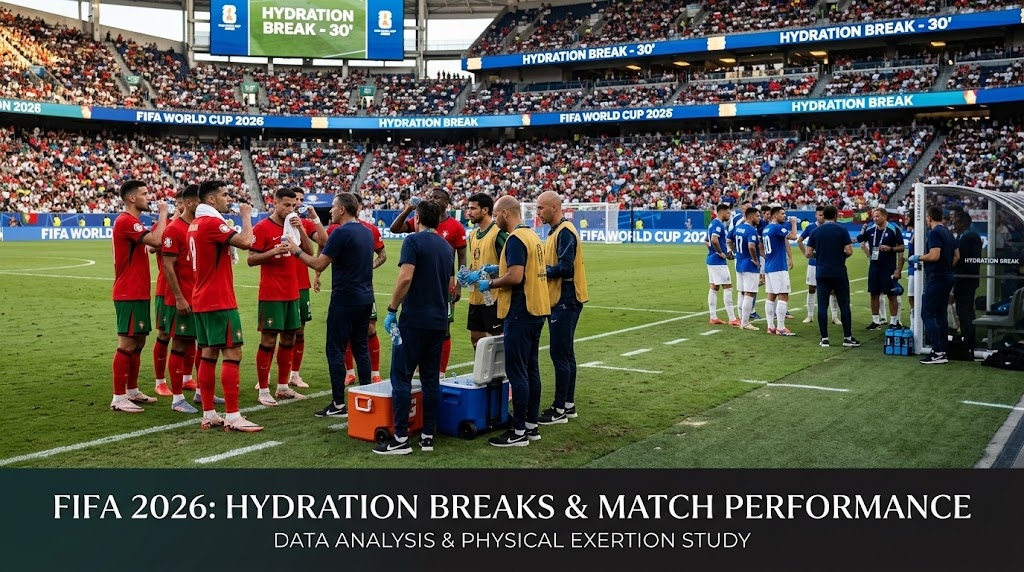
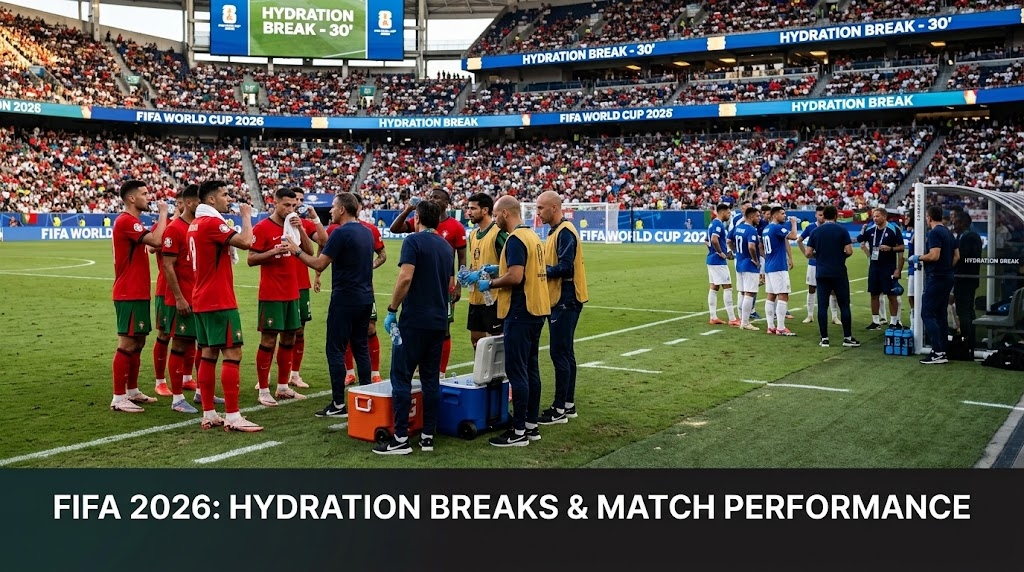
Update FIFA 2026 cover image and fix nested article tag in projects carousel

diff --git a/assets/css/modern.css b/assets/css/modern.css
@@ -594,8 +594,11 @@ img {
 }
 
 .projects-grid {
-  display: flex;
-  overflow-x: auto;
+  display: flex !important;
+  flex-direction: row !important;
+  flex-wrap: nowrap !important;
+  overflow-x: auto !important;
+  overflow-y: hidden !important;
   scroll-snap-type: x mandatory;
   scroll-behavior: smooth;
   gap: 1.75rem;
@@ -603,6 +606,7 @@ img {
   -webkit-overflow-scrolling: touch;
   scrollbar-width: thin;
   scrollbar-color: var(--border-card) transparent;
+  width: 100%;
 }
 
 .projects-grid::-webkit-scrollbar {
@@ -623,8 +627,12 @@ img {
 }
 
 .project-card {
-  flex: 0 0 calc((100% - 2 * 1.75rem) / 3);
-  min-width: 320px;
+  flex: 0 0 calc((100% - 2 * 1.75rem) / 3) !important;
+  width: calc((100% - 2 * 1.75rem) / 3) !important;
+  min-width: 330px !important;
+  max-width: 390px !important;
+  flex-shrink: 0 !important;
+  flex-grow: 0 !important;
   scroll-snap-align: start;
   background: var(--bg-card);
   border: 1px solid var(--border-card);
@@ -637,15 +645,19 @@ img {
 
 @media screen and (max-width: 1024px) {
   .project-card {
-    flex: 0 0 calc((100% - 1.5rem) / 2);
-    min-width: 290px;
+    flex: 0 0 calc((100% - 1.5rem) / 2) !important;
+    width: calc((100% - 1.5rem) / 2) !important;
+    min-width: 290px !important;
+    max-width: none !important;
   }
 }
 
 @media screen and (max-width: 640px) {
   .project-card {
-    flex: 0 0 85%;
-    min-width: 260px;
+    flex: 0 0 85% !important;
+    width: 85% !important;
+    min-width: 260px !important;
+    max-width: none !important;
   }
 }
 

diff --git a/index.html b/index.html
@@ -25,7 +25,7 @@
   <meta http-equiv="Expires" content="0" />
 
   <!-- Stylesheet -->
-  <link rel="stylesheet" href="assets/css/modern.css?v=19" />
+  <link rel="stylesheet" href="assets/css/modern.css?v=20" />
 </head>
 <body>
 
@@ -206,10 +206,12 @@
                 </a>
               </div>
             </div>
+          </article>
+
           <!-- Project 4: FIFA 2026: Hydration Breaks & Match Performance -->
           <article class="project-card" data-categories="bi sports analytics">
             <div class="project-thumb-wrapper">
-              <img src="images/fifa_2026_hydration.jpg" alt="FIFA 2026: Hydration Breaks & Match Performance" class="project-thumb" loading="lazy" />
+              <img src="images/fifa_2026_hydration.jpg?v=3" alt="FIFA 2026: Hydration Breaks & Match Performance" class="project-thumb" loading="lazy" />
               <span class="project-badge-year" style="background: rgba(245, 158, 11, 0.2); color: #f59e0b; border: 1px solid rgba(245, 158, 11, 0.4);">Em Construção</span>
             </div>
             <div class="project-content">

diff --git a/fifa_2026_hydration.html b/fifa_2026_hydration.html
@@ -21,7 +21,7 @@
   <link href="https://fonts.googleapis.com/css2?family=Plus+Jakarta+Sans:wght@400;500;600;700;800;900&display=swap" rel="stylesheet">
 
   <!-- Stylesheet -->
-  <link rel="stylesheet" href="assets/css/modern.css?v=19" />
+  <link rel="stylesheet" href="assets/css/modern.css?v=20" />
 </head>
 <body>
 
@@ -104,7 +104,7 @@
           
           <!-- Project Banner Image -->
           <div class="article-img-box">
-            <img src="images/fifa_2026_hydration.jpg" alt="FIFA 2026: Hydration Breaks & Match Performance" />
+            <img src="images/fifa_2026_hydration.jpg?v=3" alt="FIFA 2026: Hydration Breaks & Match Performance" />
           </div>
 
           <!-- Status Highlight Card -->
